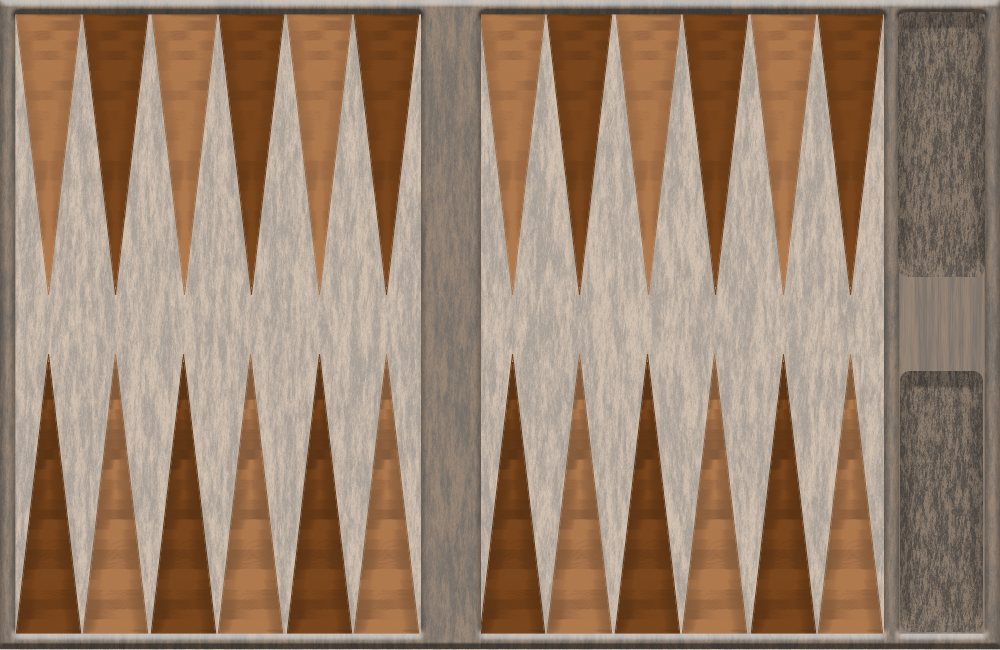
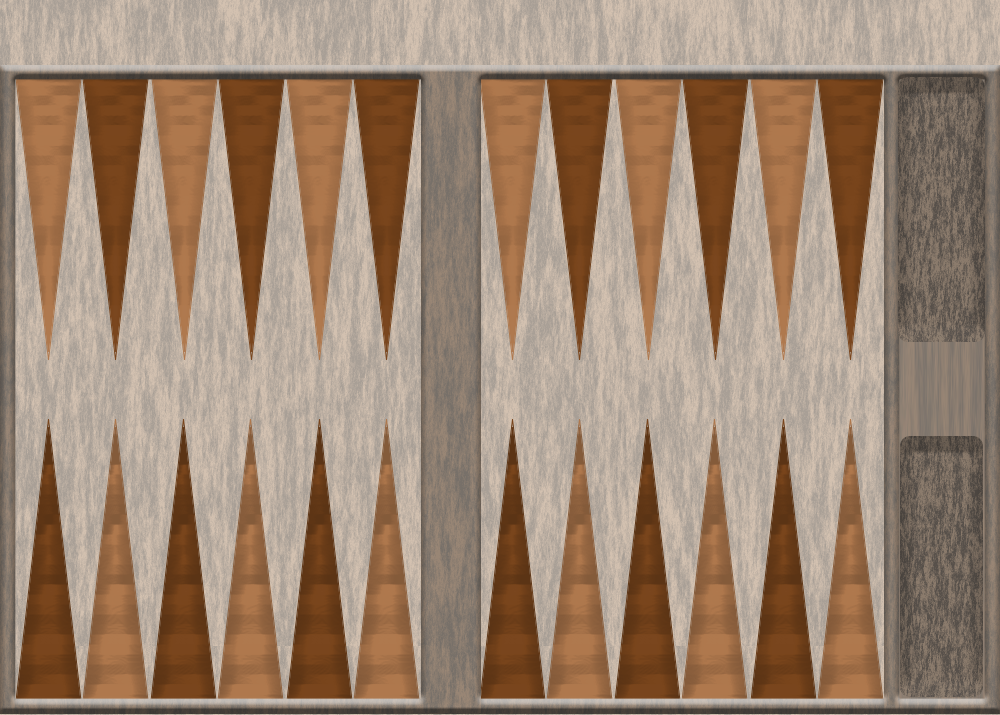
Changed board image to fit the score

diff --git a/src/Backgammon/Main.java b/src/Backgammon/Main.java
@@ -18,7 +18,7 @@ public class Main extends Application {
     public void start(Stage primaryStage) throws Exception{
         Parent root = FXMLLoader.load(getClass().getResource("board.fxml"));
         primaryStage.setTitle("Backgammon");
-        Scene scene = new Scene(root, 1000, 650);
+        Scene scene = new Scene(root, 1000, 715);
         scene.getStylesheets().addAll(this.getClass().getResource("application.css").toExternalForm());
         //Done temporarily
         primaryStage.setResizable(false);
